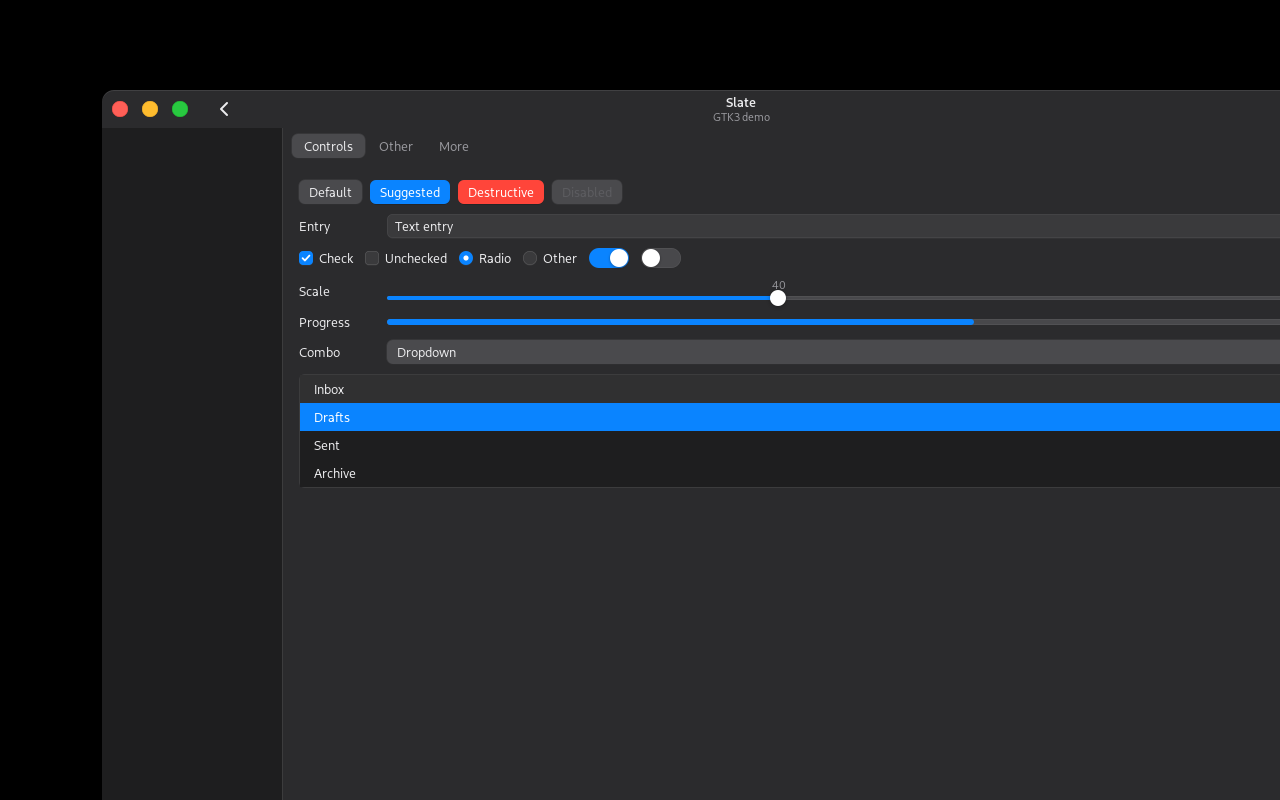
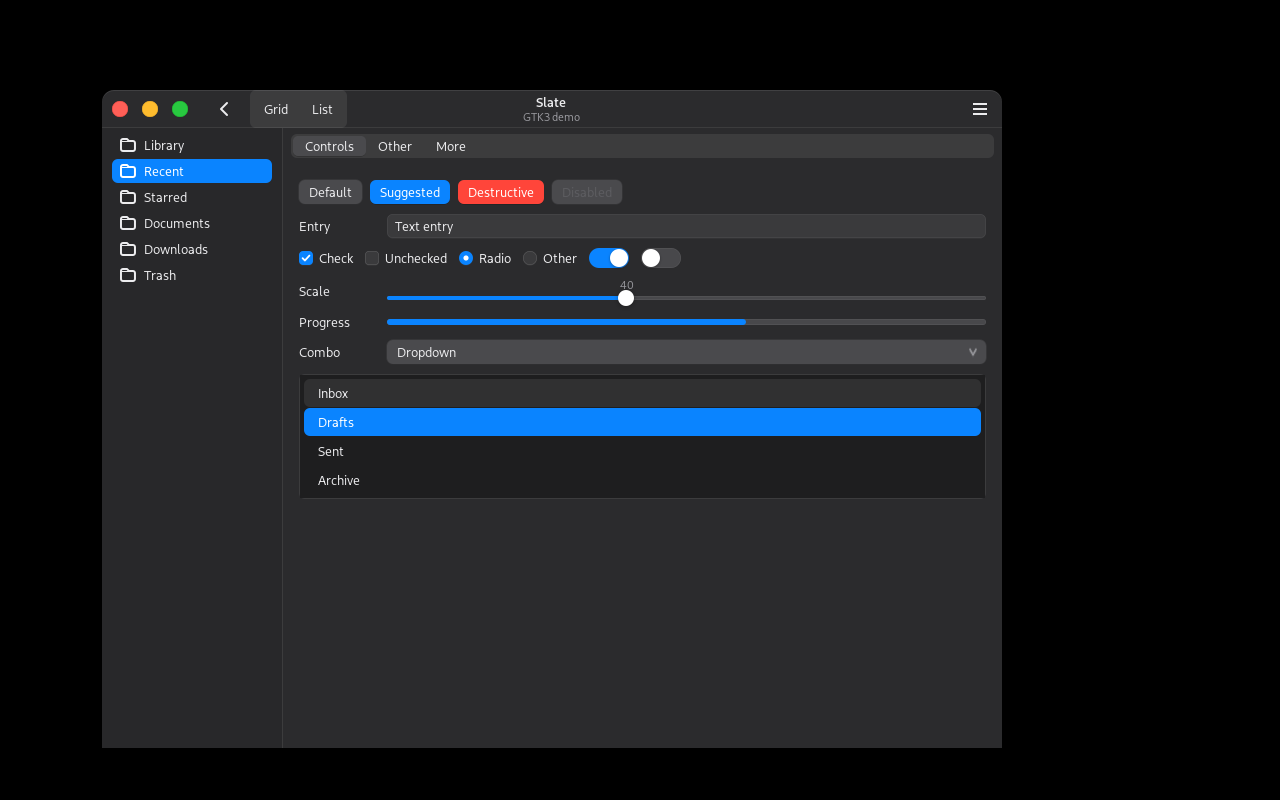
Match GTK3 to GTK4 selection, segments, and switch
GTK3 now uses the same inset rounded selection, segmented control,
and round switch knob as GTK4, so both toolkits look the same.

diff --git a/scripts/demo-gtk3.py b/scripts/demo-gtk3.py
@@ -62,19 +62,31 @@ def controls():
 
 
 def main():
-    win = Gtk.Window(default_width=1280, default_height=800)
+    win = Gtk.Window(default_width=900, default_height=620)
     win.move(0, 0)
     header = Gtk.HeaderBar(title="Slate", subtitle="GTK3 demo", show_close_button=True)
     header.pack_start(Gtk.Button.new_from_icon_name("go-previous-symbolic", Gtk.IconSize.BUTTON))
+    seg = Gtk.Box()
+    seg.get_style_context().add_class("linked")
+    first = Gtk.ToggleButton(label="Grid", active=True)
+    second = Gtk.ToggleButton(label="List")
+    seg.pack_start(first, False, False, 0)
+    seg.pack_start(second, False, False, 0)
+    header.pack_start(seg)
     header.pack_end(Gtk.Button.new_from_icon_name("open-menu-symbolic", Gtk.IconSize.BUTTON))
     win.set_titlebar(header)
 
     paned = Gtk.Box()
-    sidebar = Gtk.StackSidebar()
-    stack = Gtk.Stack()
-    for name in ("Library", "Recent", "Starred"):
-        stack.add_titled(Gtk.Label(label=name), name.lower(), name)
-    sidebar.set_stack(stack)
+    sidebar = Gtk.ListBox()
+    sidebar.get_style_context().add_class("sidebar")
+    for name in ("Library", "Recent", "Starred", "Documents", "Downloads", "Trash"):
+        row = Gtk.ListBoxRow()
+        box = Gtk.Box(spacing=8)
+        box.pack_start(Gtk.Image.new_from_icon_name("folder-symbolic", Gtk.IconSize.MENU), False, False, 0)
+        box.pack_start(Gtk.Label(label=name, xalign=0), True, True, 0)
+        row.add(box)
+        sidebar.add(row)
+    sidebar.select_row(sidebar.get_row_at_index(1))
     sidebar.set_size_request(180, -1)
     paned.pack_start(sidebar, False, False, 0)
     paned.pack_start(Gtk.Separator(orientation=Gtk.Orientation.VERTICAL), False, False, 0)
